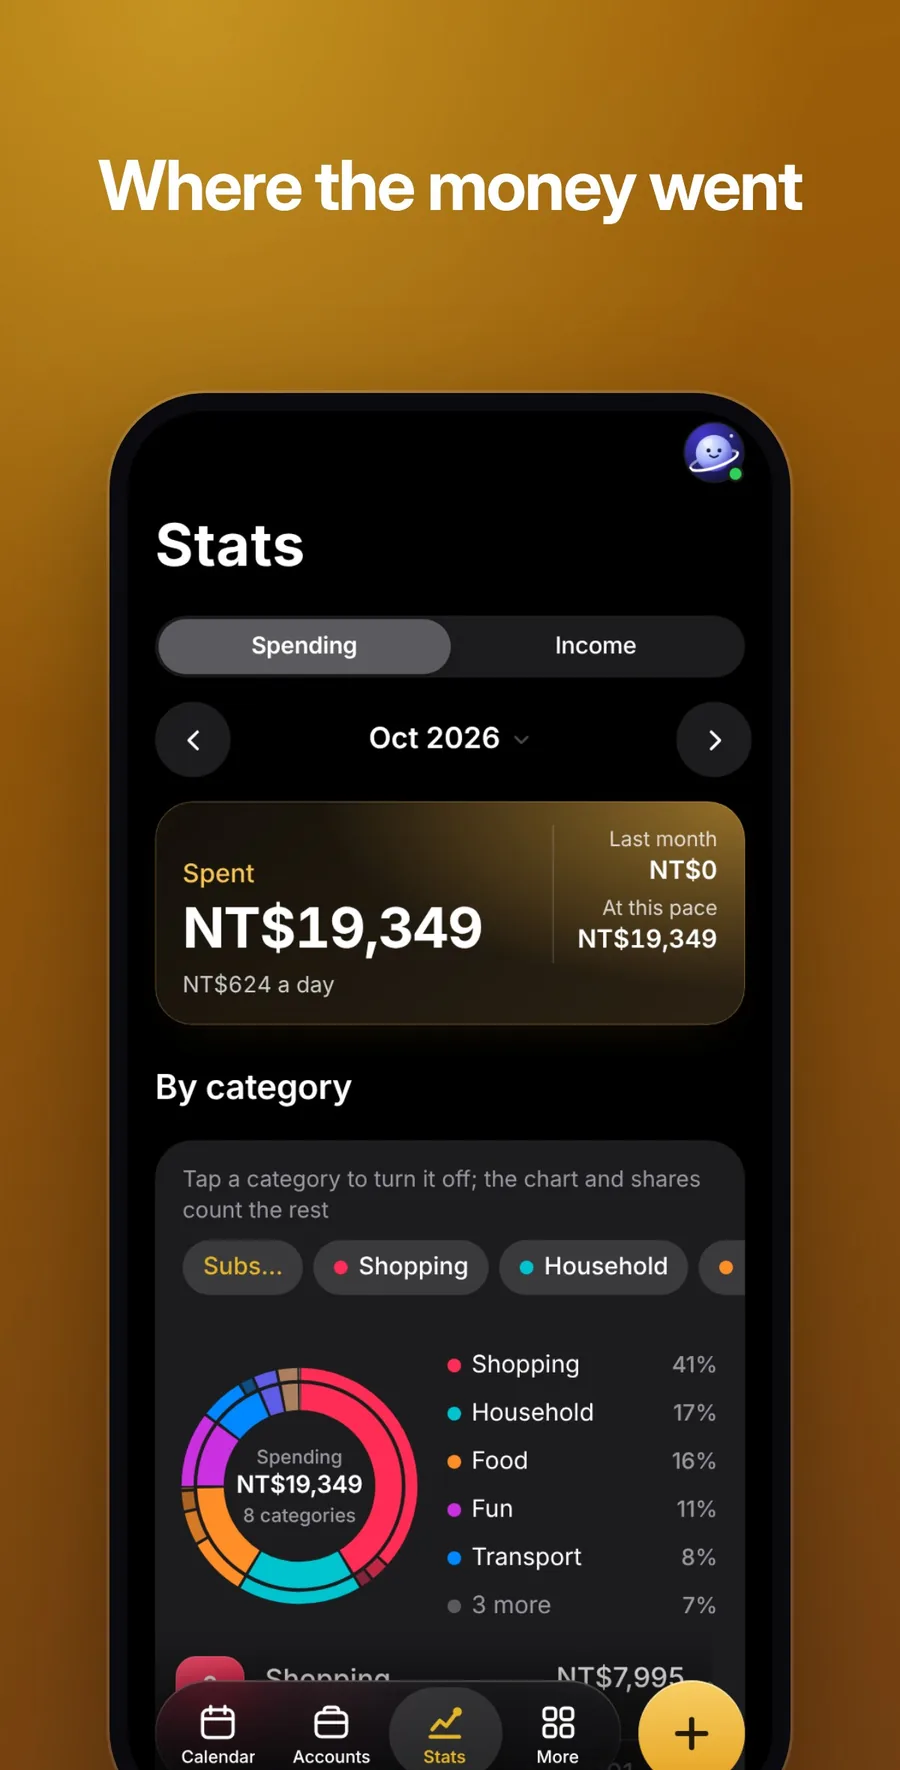
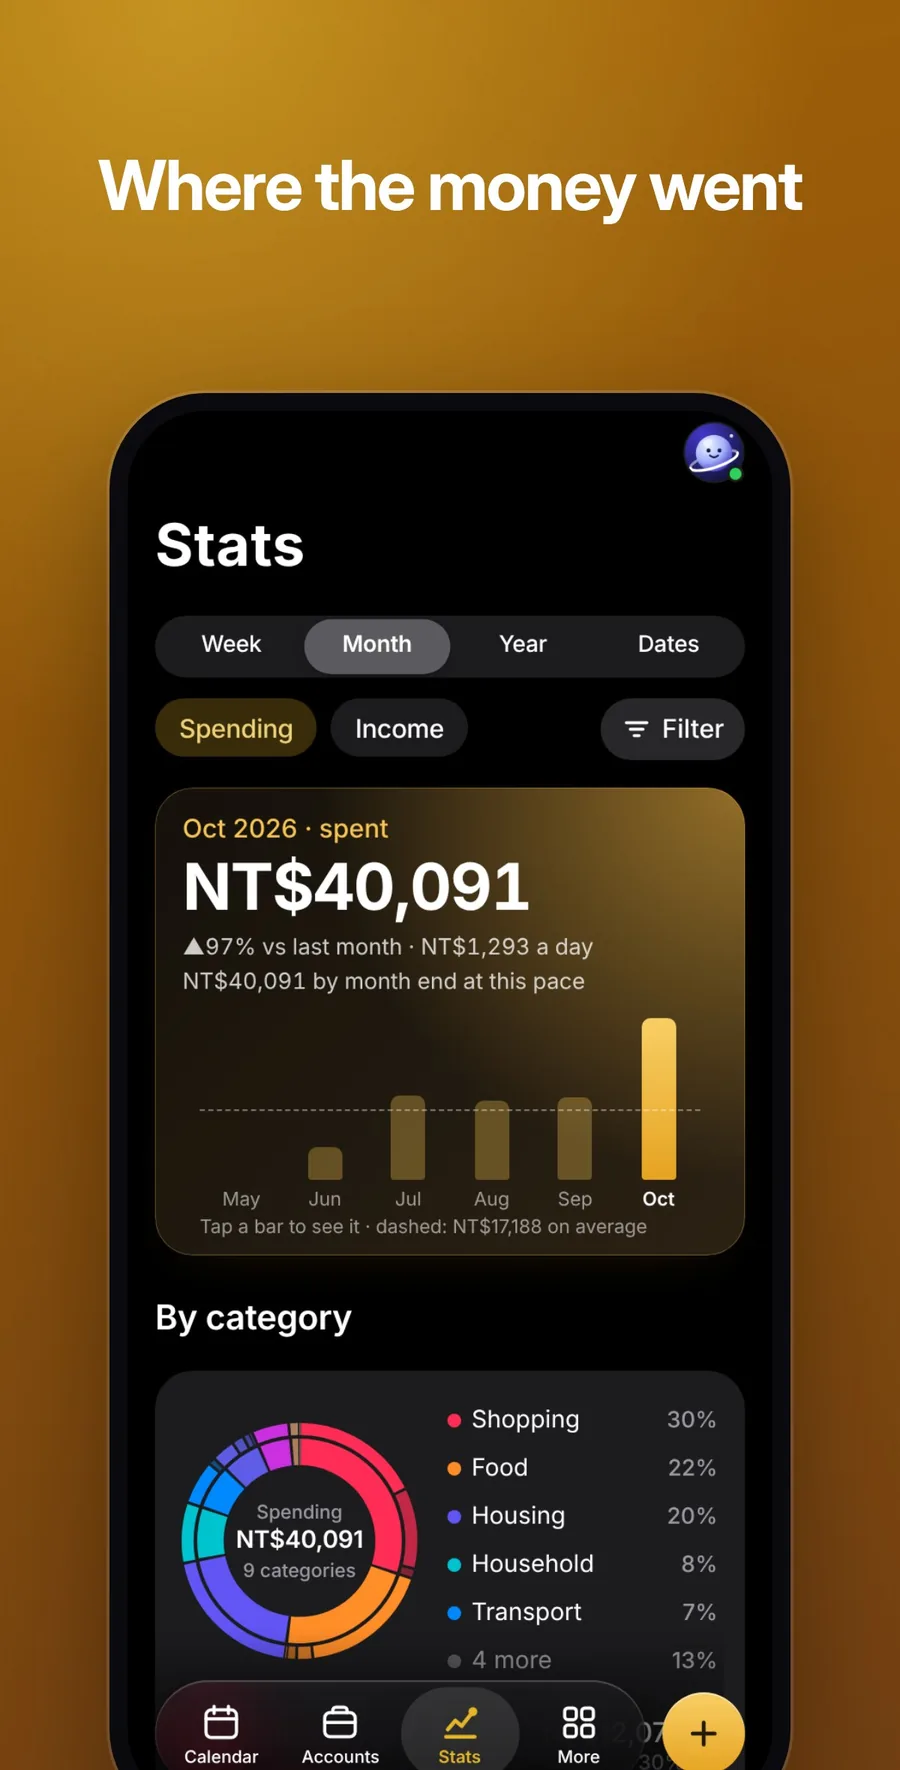
README: 統計 as one page, its screenshot retaken
Claude-Session: https://claude.ai/code/session_01DckgWMSXdaHh8fMPe1M6EA

Changed region(s): [[0.1556, 0.3418, 0.84, 1.0], [0.8089, 0.9944, 0.84, 1.0]]

diff --git a/README.md b/README.md
@@ -33,7 +33,7 @@ Your own books for real money: what you spend each day, what each account holds,
 
 - **月曆 Calendar:** opens on today: the month's spent, income and what's left against the budget, the week around today, and today's entries right below; the whole month a tap away.
 - **帳戶 Accounts:** cash, banks, 電子票證, 電子支付 and credit cards, each with its own logo; every card shows its network (Visa, Mastercard, JCB, American Express, UnionPay, Diners Club); TPASS and YouBike with their own logos; total assets; fixed income and expenses.
-- **統計 Stats:** week, month or year against the last; a donut of the categories with their sub-categories around them; tap a category or a sub-category to leave it out of the count; budgets.
+- **統計 Stats:** one page, top to bottom. Pick week, month, year or your own dates; the card shows the total against the period before, the daily average and where the month is heading, over gold bars of the periods before (tap one to jump to it). Under it, a donut of the categories with their sub-categories around them (tap one to leave it out of the count), and budgets.
 - **發票 Invoices:** the 手機條碼 as a barcode for the till, scanning both QR codes of a paper invoice, importing the e-invoice carrier list (載具) that the 電子發票平台 exports, and checking every invoice against the draw.
 - **記一筆 Entries:** guesses the kind, category, sub-category and way to pay from your own entries most like now (the hour, the weekday, today's), with the usual amounts one tap away; spending, income, moves between your own accounts, balance fixes and repeats added on their day.
 - **Category sets:** 學生, 上班族 or 家庭, a short list picked before the first entry, or all of them; changeable in 更多 › 分類.
